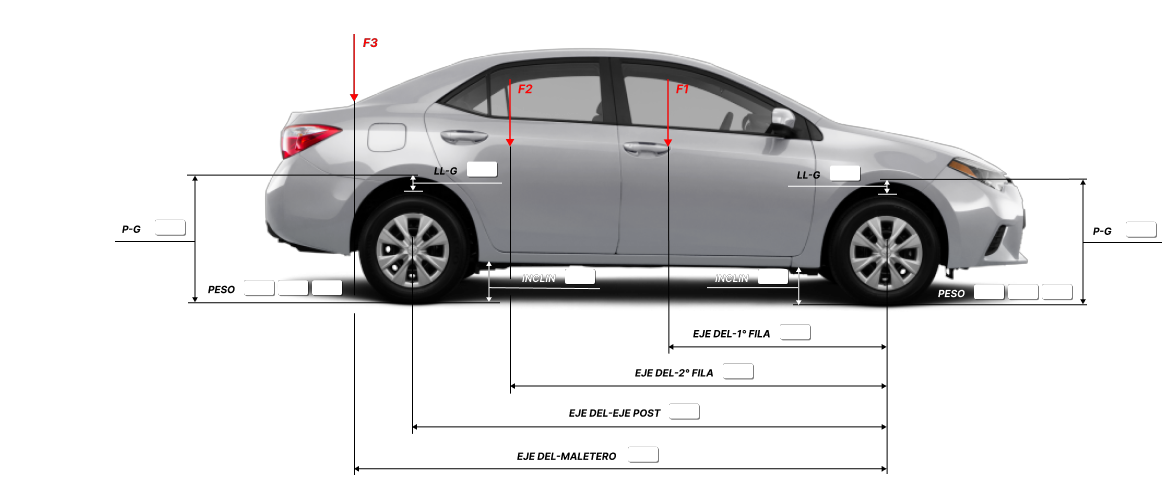
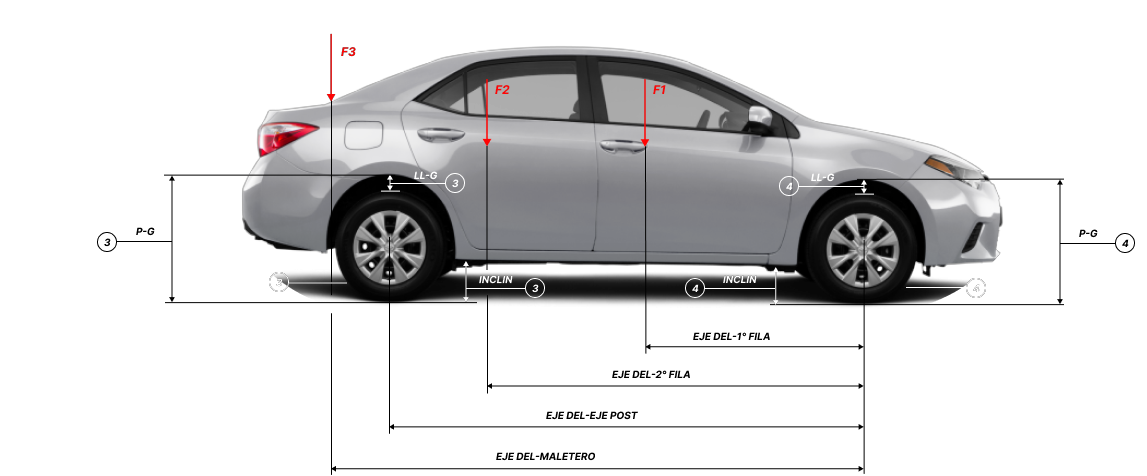
new imagen

Changed region(s): [[0.1526, 0.0588, 1.0, 1.0], [0.0915, 0.4412, 0.1831, 0.5294], [0.7629, 0.2647, 0.7934, 0.2941]]

diff --git a/src/components/Design/VehicleDimentions/VehicleDimentions.js b/src/components/Design/VehicleDimentions/VehicleDimentions.js
@@ -1,6 +1,6 @@
 import { useState } from "react"
 //import Input from "../../Input"
-import { DimentionsInput, Wrapper, Label } from "./styles"
+import { DimentionsInput, Wrapper, Label, DimentionsContainer } from "./styles"
 import { Switch } from "@mui/material";
 
 export function VehicleDimentions(){
@@ -31,6 +31,11 @@ export function VehicleDimentions(){
 		pesoPost_Der3: "",
 		inclinationPost_Der:"",
 
+		frontWheel_firstline: "",
+		frontWheel_secondline: "",
+		frontWheel_rearWheel: "",
+		frontWheel_thirdline: "",
+
 	})
     const [isChecked, setIsChecked] = useState(false);
     const handleChange = () => {
@@ -39,12 +44,36 @@ export function VehicleDimentions(){
   
     return(
 		<Wrapper>
-         <Label>Modo imagen<Switch onChange= {handleChange} size="big"/>Modo tabla</Label>
-          <div>
-             <img src="/Images/Component-58-Izq.webp" align="center" width="100%" />
+          <Label>Modo imagen<Switch onChange= {handleChange} size="big"/>Modo tabla</Label>
+            <img src="/Images/Component-58-Izq.webp" align="center" width="100%" />
+            
+			<div> 
+			 <DimentionsContainer>
+				 <label>DEL IZQ</label>
+			     <DimentionsInput id="pgDel_Izq" title ="P-G" value={vehicleDimentions.pgDel_Izq} onChange={(e)=>setVehicleDimentions({...vehicleDimentions, pgDel_Izq:e.target.value})}/>
+			     <DimentionsInput id="llgDel_Izq" title ="LL-G" value={vehicleDimentions.llgDel_Izq} onChange={(e)=>setVehicleDimentions({...vehicleDimentions, llgDel_Izq:e.target.value})}/>
+			     <DimentionsInput id="pesoDel_Izq1" title ="PESO 1" value={vehicleDimentions.pesoDel_Izq1} onChange={(e)=>setVehicleDimentions({...vehicleDimentions, pesoDel_Izq1:e.target.value})}/>
+			     <DimentionsInput id="pesoDel_Izq2" title ="PESO 2" value={vehicleDimentions.pgDel_Izq} onChange={(e)=>setVehicleDimentions({...vehicleDimentions, pgDel_Izq:e.target.value})}/>
+			     <DimentionsInput id="pesoDel_Izq3" title ="PESO 3" value={vehicleDimentions.pgDel_Izq} onChange={(e)=>setVehicleDimentions({...vehicleDimentions, pgDel_Izq:e.target.value})}/>
+			     <DimentionsInput id="inclinationDel_Izq" title ="INCLIN" value={vehicleDimentions.pgDel_Izq} onChange={(e)=>setVehicleDimentions({...vehicleDimentions, pgDel_Izq:e.target.value})}/>
+			 </DimentionsContainer>
+			 <DimentionsContainer>
+				 <label>POST IZQ</label>
+			     <DimentionsInput id="pgPost_Izq" title ="P-G" value={vehicleDimentions.pgPost_Izq} onChange={(e)=>setVehicleDimentions({...vehicleDimentions, pgPost_Izq:e.target.value})}/>
+			     <DimentionsInput id="llgPost_Izq" title ="LL-G" value={vehicleDimentions.llgPost_Izq} onChange={(e)=>setVehicleDimentions({...vehicleDimentions, llgPost_Izq:e.target.value})}/>
+			     <DimentionsInput id="pesoPost_Izq1" title ="PESO 1" value={vehicleDimentions.pesoPost_Izq1} onChange={(e)=>setVehicleDimentions({...vehicleDimentions, pesoPost_Izq1:e.target.value})}/>
+			     <DimentionsInput id="pesoPost_Izq2" title ="PESO 2" value={vehicleDimentions.pgPost_Izq} onChange={(e)=>setVehicleDimentions({...vehicleDimentions, pgPost_Izq:e.target.value})}/>
+			     <DimentionsInput id="pesoPost_Izq3" title ="PESO 3" value={vehicleDimentions.pgPost_Izq} onChange={(e)=>setVehicleDimentions({...vehicleDimentions, pgPost_Izq:e.target.value})}/>
+			     <DimentionsInput id="inclinationPost_Izq" title ="INCLIN" value={vehicleDimentions.pgPost_Izq} onChange={(e)=>setVehicleDimentions({...vehicleDimentions, pgPost_Izq:e.target.value})}/>
+			 </DimentionsContainer>
              
-
-			     <DimentionsInput id="pgDel_Izq" value={vehicleDimentions.pgDel_Izq} onChange={(e)=>setVehicleDimentions({...vehicleDimentions, pgDel_Izq:e.target.value})}/>
+             <DimentionsContainer>
+				 <DimentionsInput id="frontWheel_firstline" title ="EJE DEL-1° FILA" value={vehicleDimentions.frontWheel_firstline} onChange={(e)=>setVehicleDimentions({...vehicleDimentions, frontWheel_firstline:e.target.value})}/>
+			     <DimentionsInput id="frontWheel_secondline" title ="EJE DEL-2° FILA" value={vehicleDimentions.frontWheel_secondline} onChange={(e)=>setVehicleDimentions({...vehicleDimentions, frontWheel_secondline:e.target.value})}/>
+				 <DimentionsInput id="frontWheel_rearWheel" title ="EJE DEL-EJE POST" value={vehicleDimentions.frontWheel_rearWheel} onChange={(e)=>setVehicleDimentions({...vehicleDimentions, frontWheel_rearWheel:e.target.value})}/>
+			     <DimentionsInput id="frontWheel_thirdline" title ="EJE DEL-MALETERO" value={vehicleDimentions.frontWheel_thirdline} onChange={(e)=>setVehicleDimentions({...vehicleDimentions, frontWheel_thirdline:e.target.value})}/>
+			 </DimentionsContainer>
+			 
 				
 		  </div>
          

diff --git a/src/components/Design/VehicleDimentions/styles.js b/src/components/Design/VehicleDimentions/styles.js
@@ -6,21 +6,34 @@ export const Wrapper = styled.div`
 	
 	> div{
 		display: flex;
-		flex-direction: column;
+		
 		gap: 6px;
 		width: 90%;
 	}
+	label{
+		margin: 0;
+		color: ${colors.font.text};
+		margin-bottom: 0.5rem;
+		min-width: 170px;
+	}
+	
 	@media(max-width: 1024px){
 		display:flex;
 		flex-direction:column;
 		gap: 0.5rem;
 	}
 `
-export const DimentionsInput = styled.div`
-  width: 45px;
-  height: 20px;
-  border-radius: 8px;
-  color: ${colors.cell};
+export const DimentionsContainer = styled.div`
+ 
+ display: grid;
+ gap: 6px;
+`
+
+export const DimentionsInput = styled.input`
+  width: 55px;
+  height: 25px;
+  border-radius: 5px;
+  color: "black";
   
 `
 export const Label = styled.label`

diff --git a/src/components/Design/VehicleDimentions/DimentionsInput.js b/src/components/Design/VehicleDimentions/DimentionsInput.js
@@ -1,0 +1,10 @@
+import { Wrapper } from "./styles";
+
+export function DimentionsInput({title, value, onChange, id}){
+	return(
+		<Wrapper>
+			<label for={id}>{title}</label>
+			<input id={id} value={value} onChange={onChange}/>
+		</Wrapper>
+	)
+}
